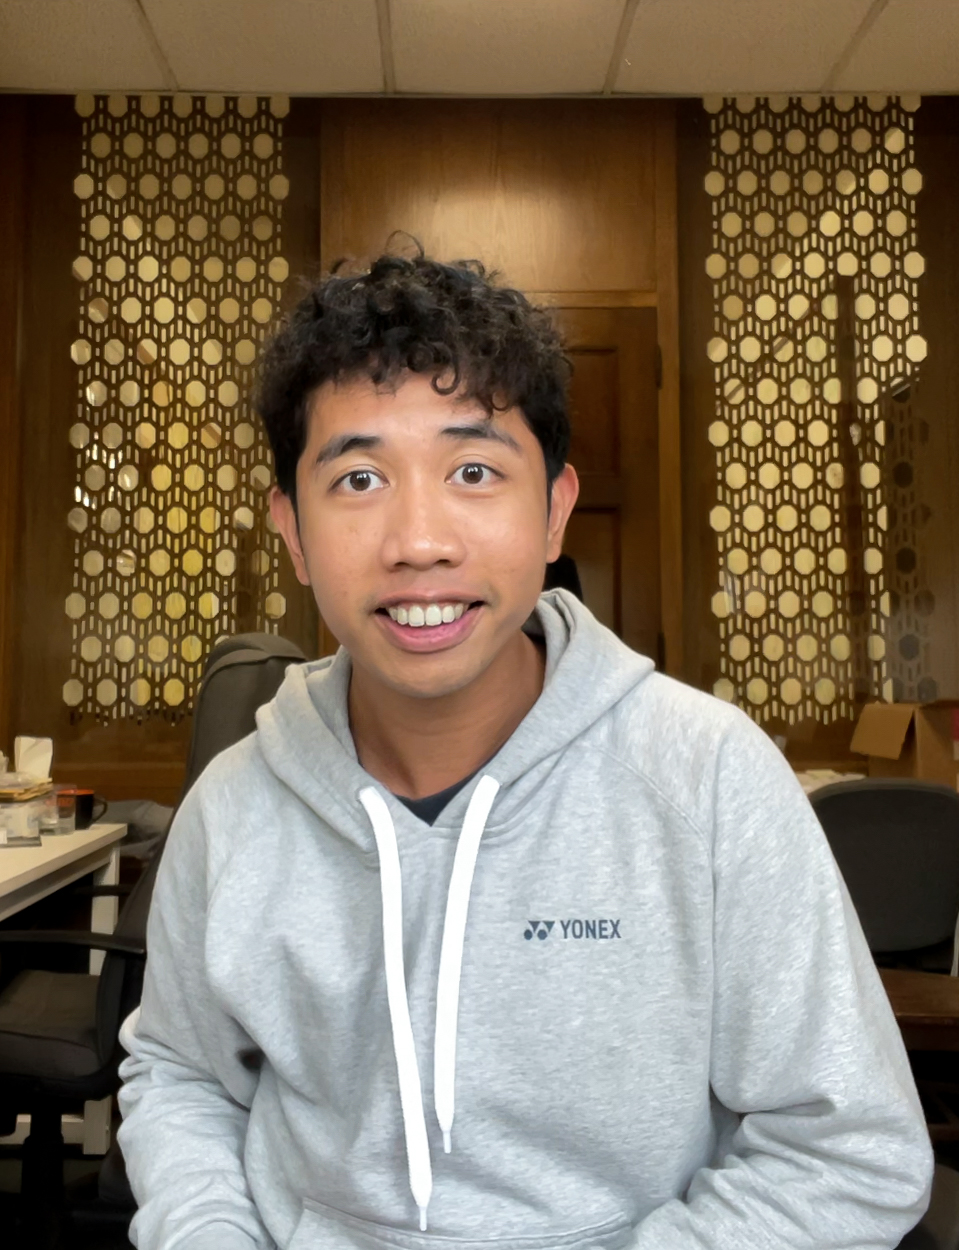
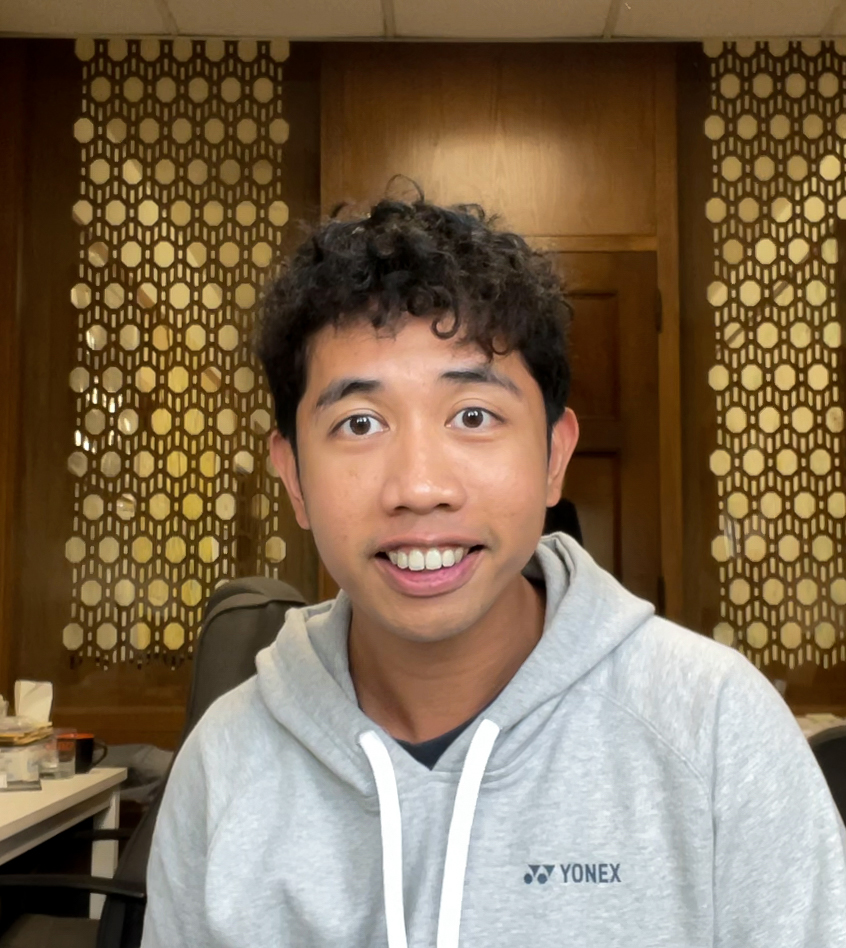
Add headshot photo

diff --git a/index.html b/index.html
@@ -62,7 +62,7 @@
       <div class="social-links">
         <a href="mailto:ren.marquez.edu">
           <svg width="15" height="15" viewBox="0 0 24 24" fill="none" stroke="currentColor" stroke-width="2" stroke-linecap="round" stroke-linejoin="round"><rect x="2" y="4" width="20" height="16" rx="2"/><path d="m22 7-8.97 5.7a1.94 1.94 0 0 1-2.06 0L2 7"/></svg>
-          ren.marquezh@asu.edu
+          ren.marquez@asu.edu
         </a>
         <a href="https://scholar.google.com/citations?user=i3Tmxq4AAAAJ&hl=en" target="_blank" rel="noopener">
           <svg width="15" height="15" viewBox="0 0 24 24" fill="none" stroke="currentColor" stroke-width="2" stroke-linecap="round" stroke-linejoin="round"><circle cx="12" cy="12" r="10"/><path d="M12 8v4l3 3"/></svg>
